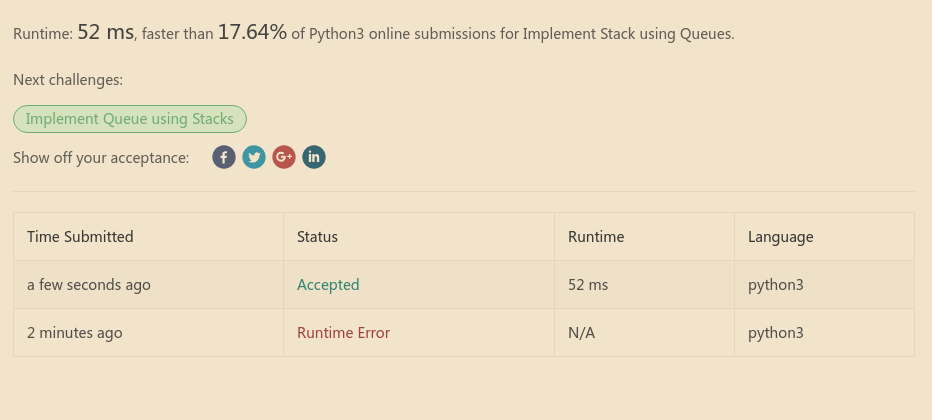
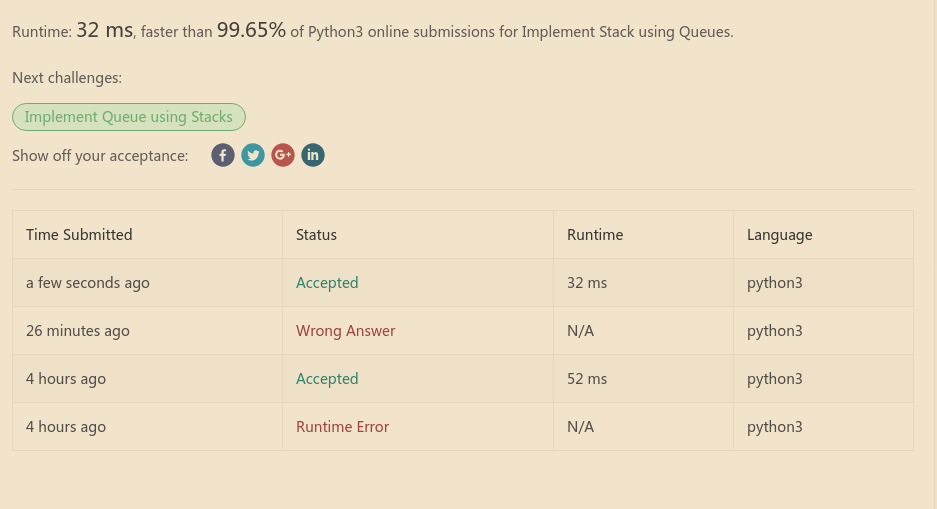
Implement Stack using Queues(Problem 225 - AC) optimization

diff --git a/leetcode/225/Implement Stack using Queues.py b/leetcode/225/Implement Stack using Queues.py
@@ -34,8 +34,7 @@ class MyStack:
         """
         Initialize your data structure here.
         """
-        self.tail = []
-        self.head = []
+        self.queue = []
         
 
     def push(self, x):
@@ -44,8 +43,11 @@ class MyStack:
         :type x: int
         :rtype: void
         """
-        self.tail.append(x)
-        self.head.insert(0, x)
+        self.queue.append(x)
+        tail = len(self.queue) - 1
+        while tail > 0:
+            self.queue[tail], self.queue[tail-1] = self.queue[tail-1], self.queue[tail]
+            tail -= 1
         
 
     def pop(self):
@@ -53,24 +55,22 @@ class MyStack:
         Removes the element on top of the stack and returns that element.
         :rtype: int
         """
-        if not len(self.tail): return None
-        self.tail.pop(-1)
-        return self.head.pop(0)
+        return self.queue.pop(0)
+        
 
     def top(self):
         """
         Get the top element.
         :rtype: int
         """
-        if not len(self.tail): return None
-        return self.head[0]
+        return self.queue[0]
 
     def empty(self):
         """
         Returns whether the stack is empty.
         :rtype: bool
         """
-        return len(self.tail) == 0
+        return len(self.queue) == 0
 
 
 class TestMyStack(unittest.TestCase):

diff --git a/leetcode/readme.md b/leetcode/readme.md
@@ -59,4 +59,4 @@ Python3
 |55|239|Sliding Window Maximum|Py3|Hard|0.0473|
 |56|641|Design Circular Deque|Py3|Medium|0.4143|
 |57|622|Design Circular Queue|Py3|Medium|0.6182|
-|58|225|Implement Stack using Queues|Py3|Easy|0.1764|
+|58|225|Implement Stack using Queues|Py3|Easy|0.9965|
